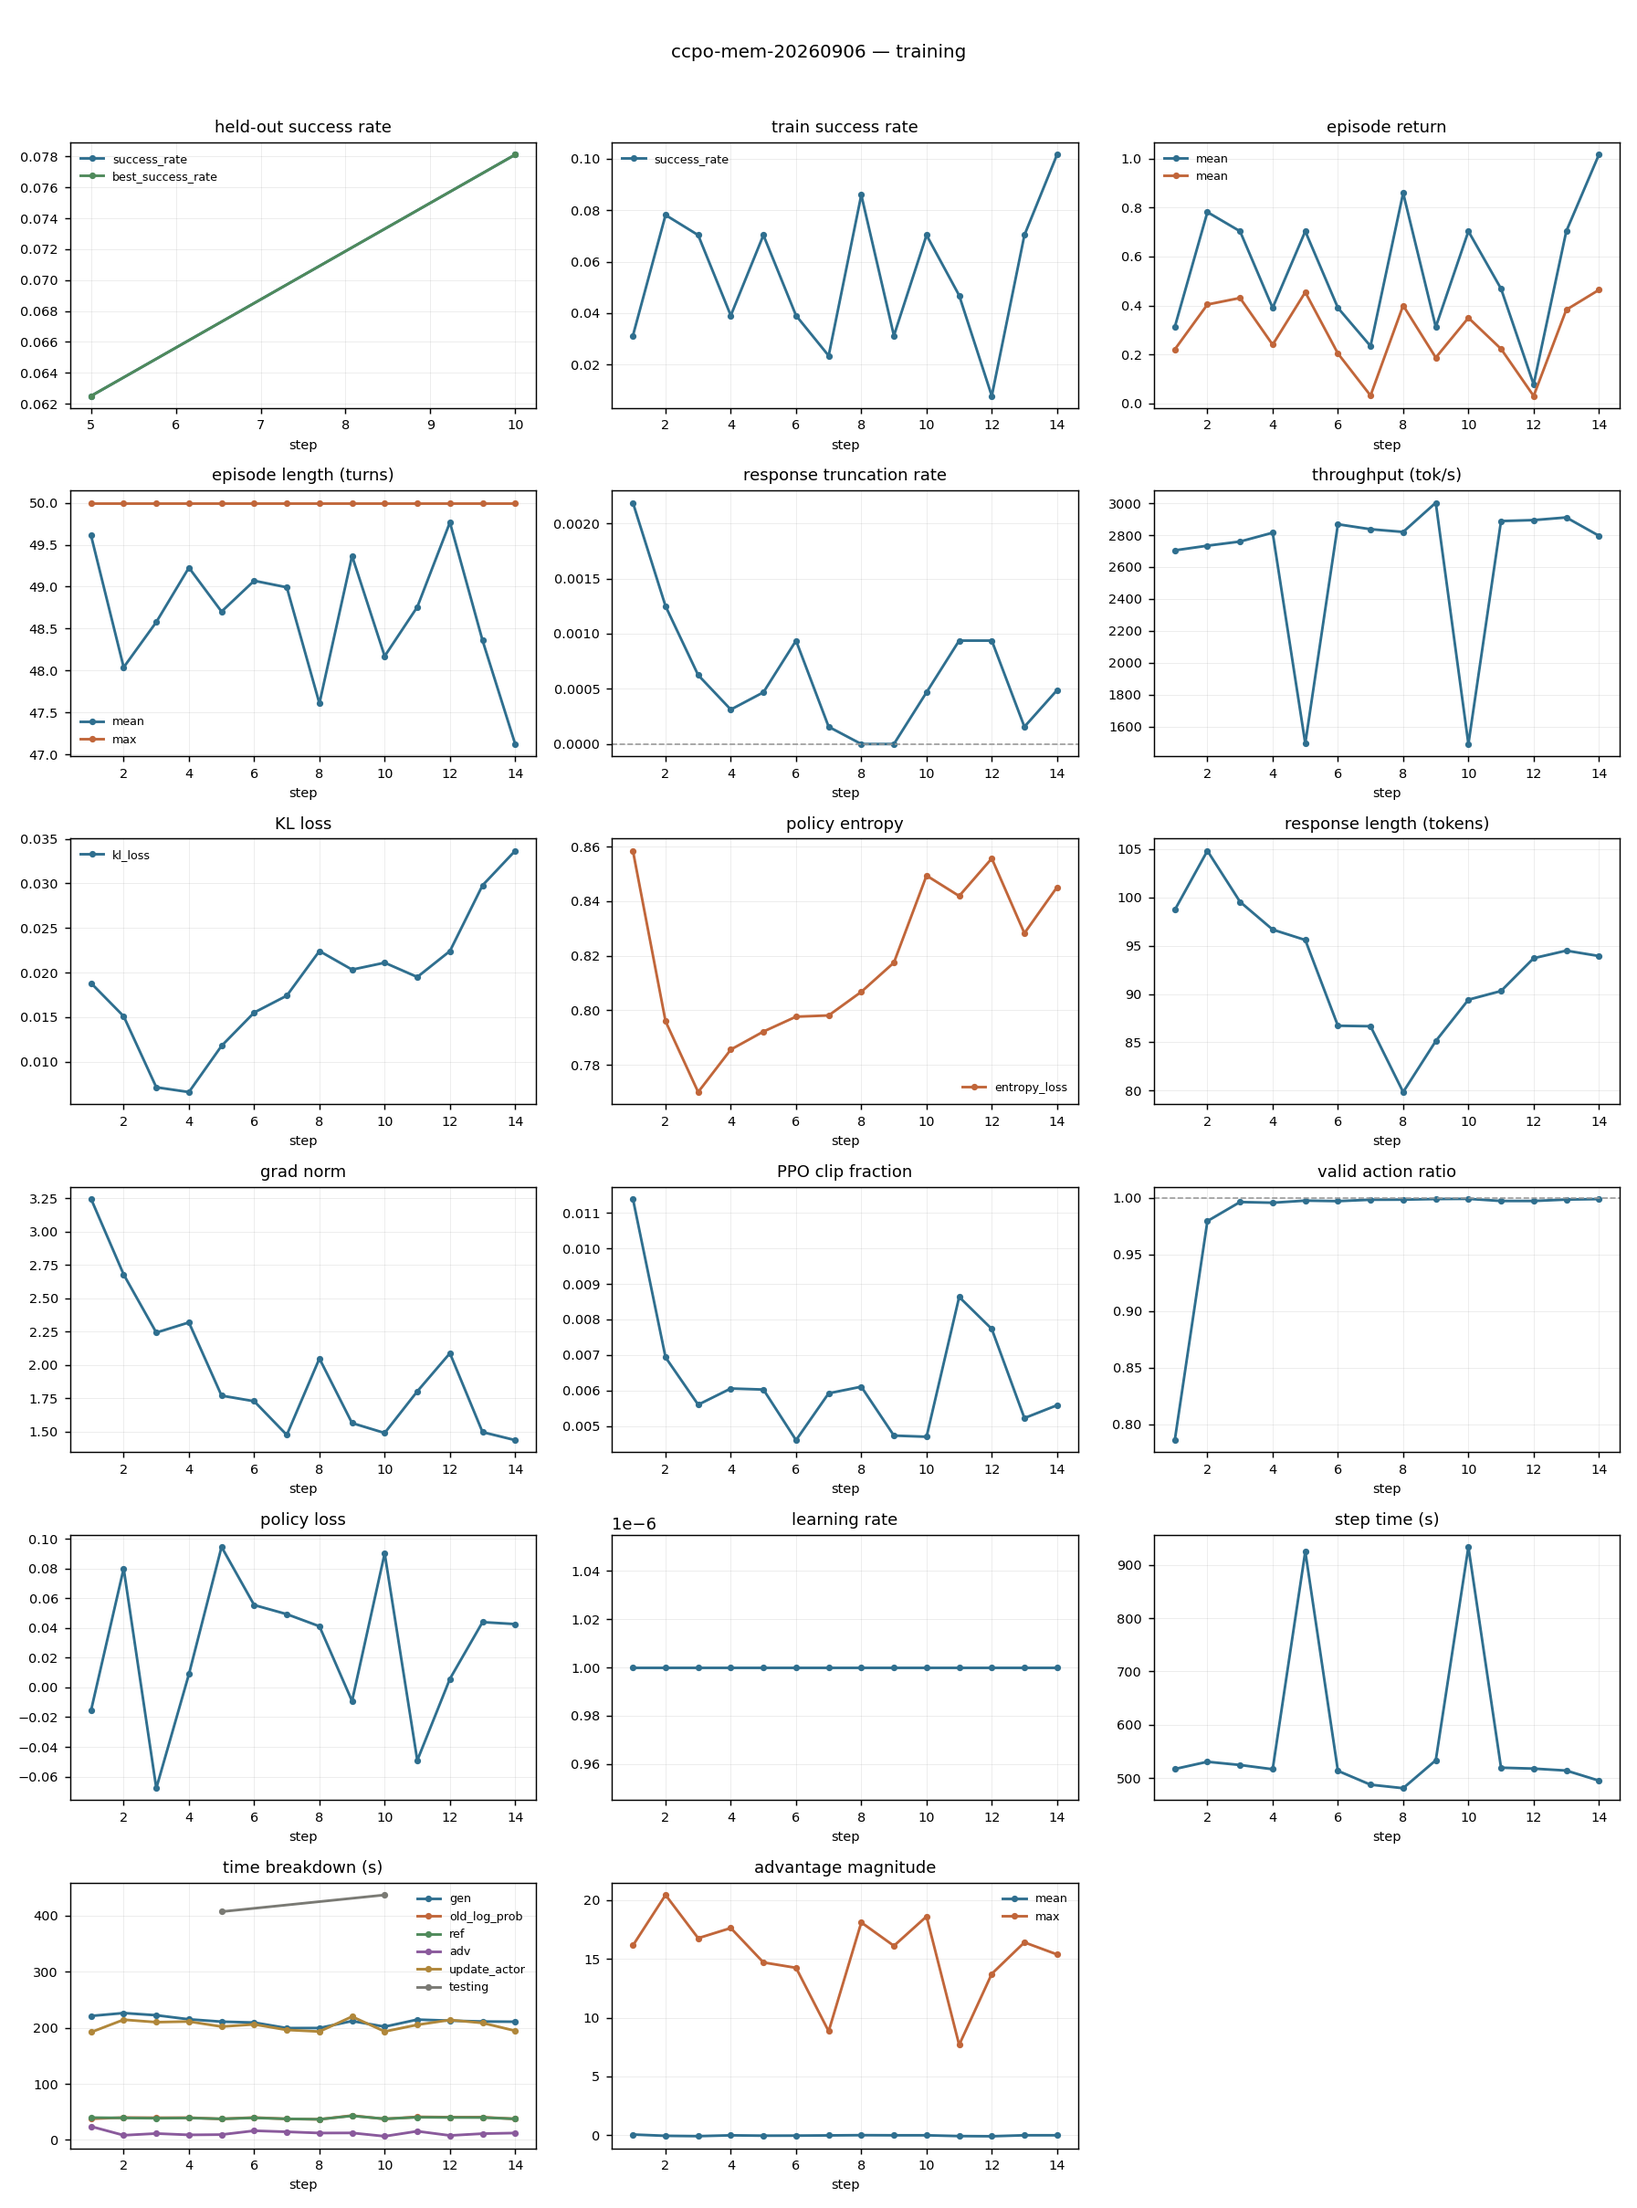
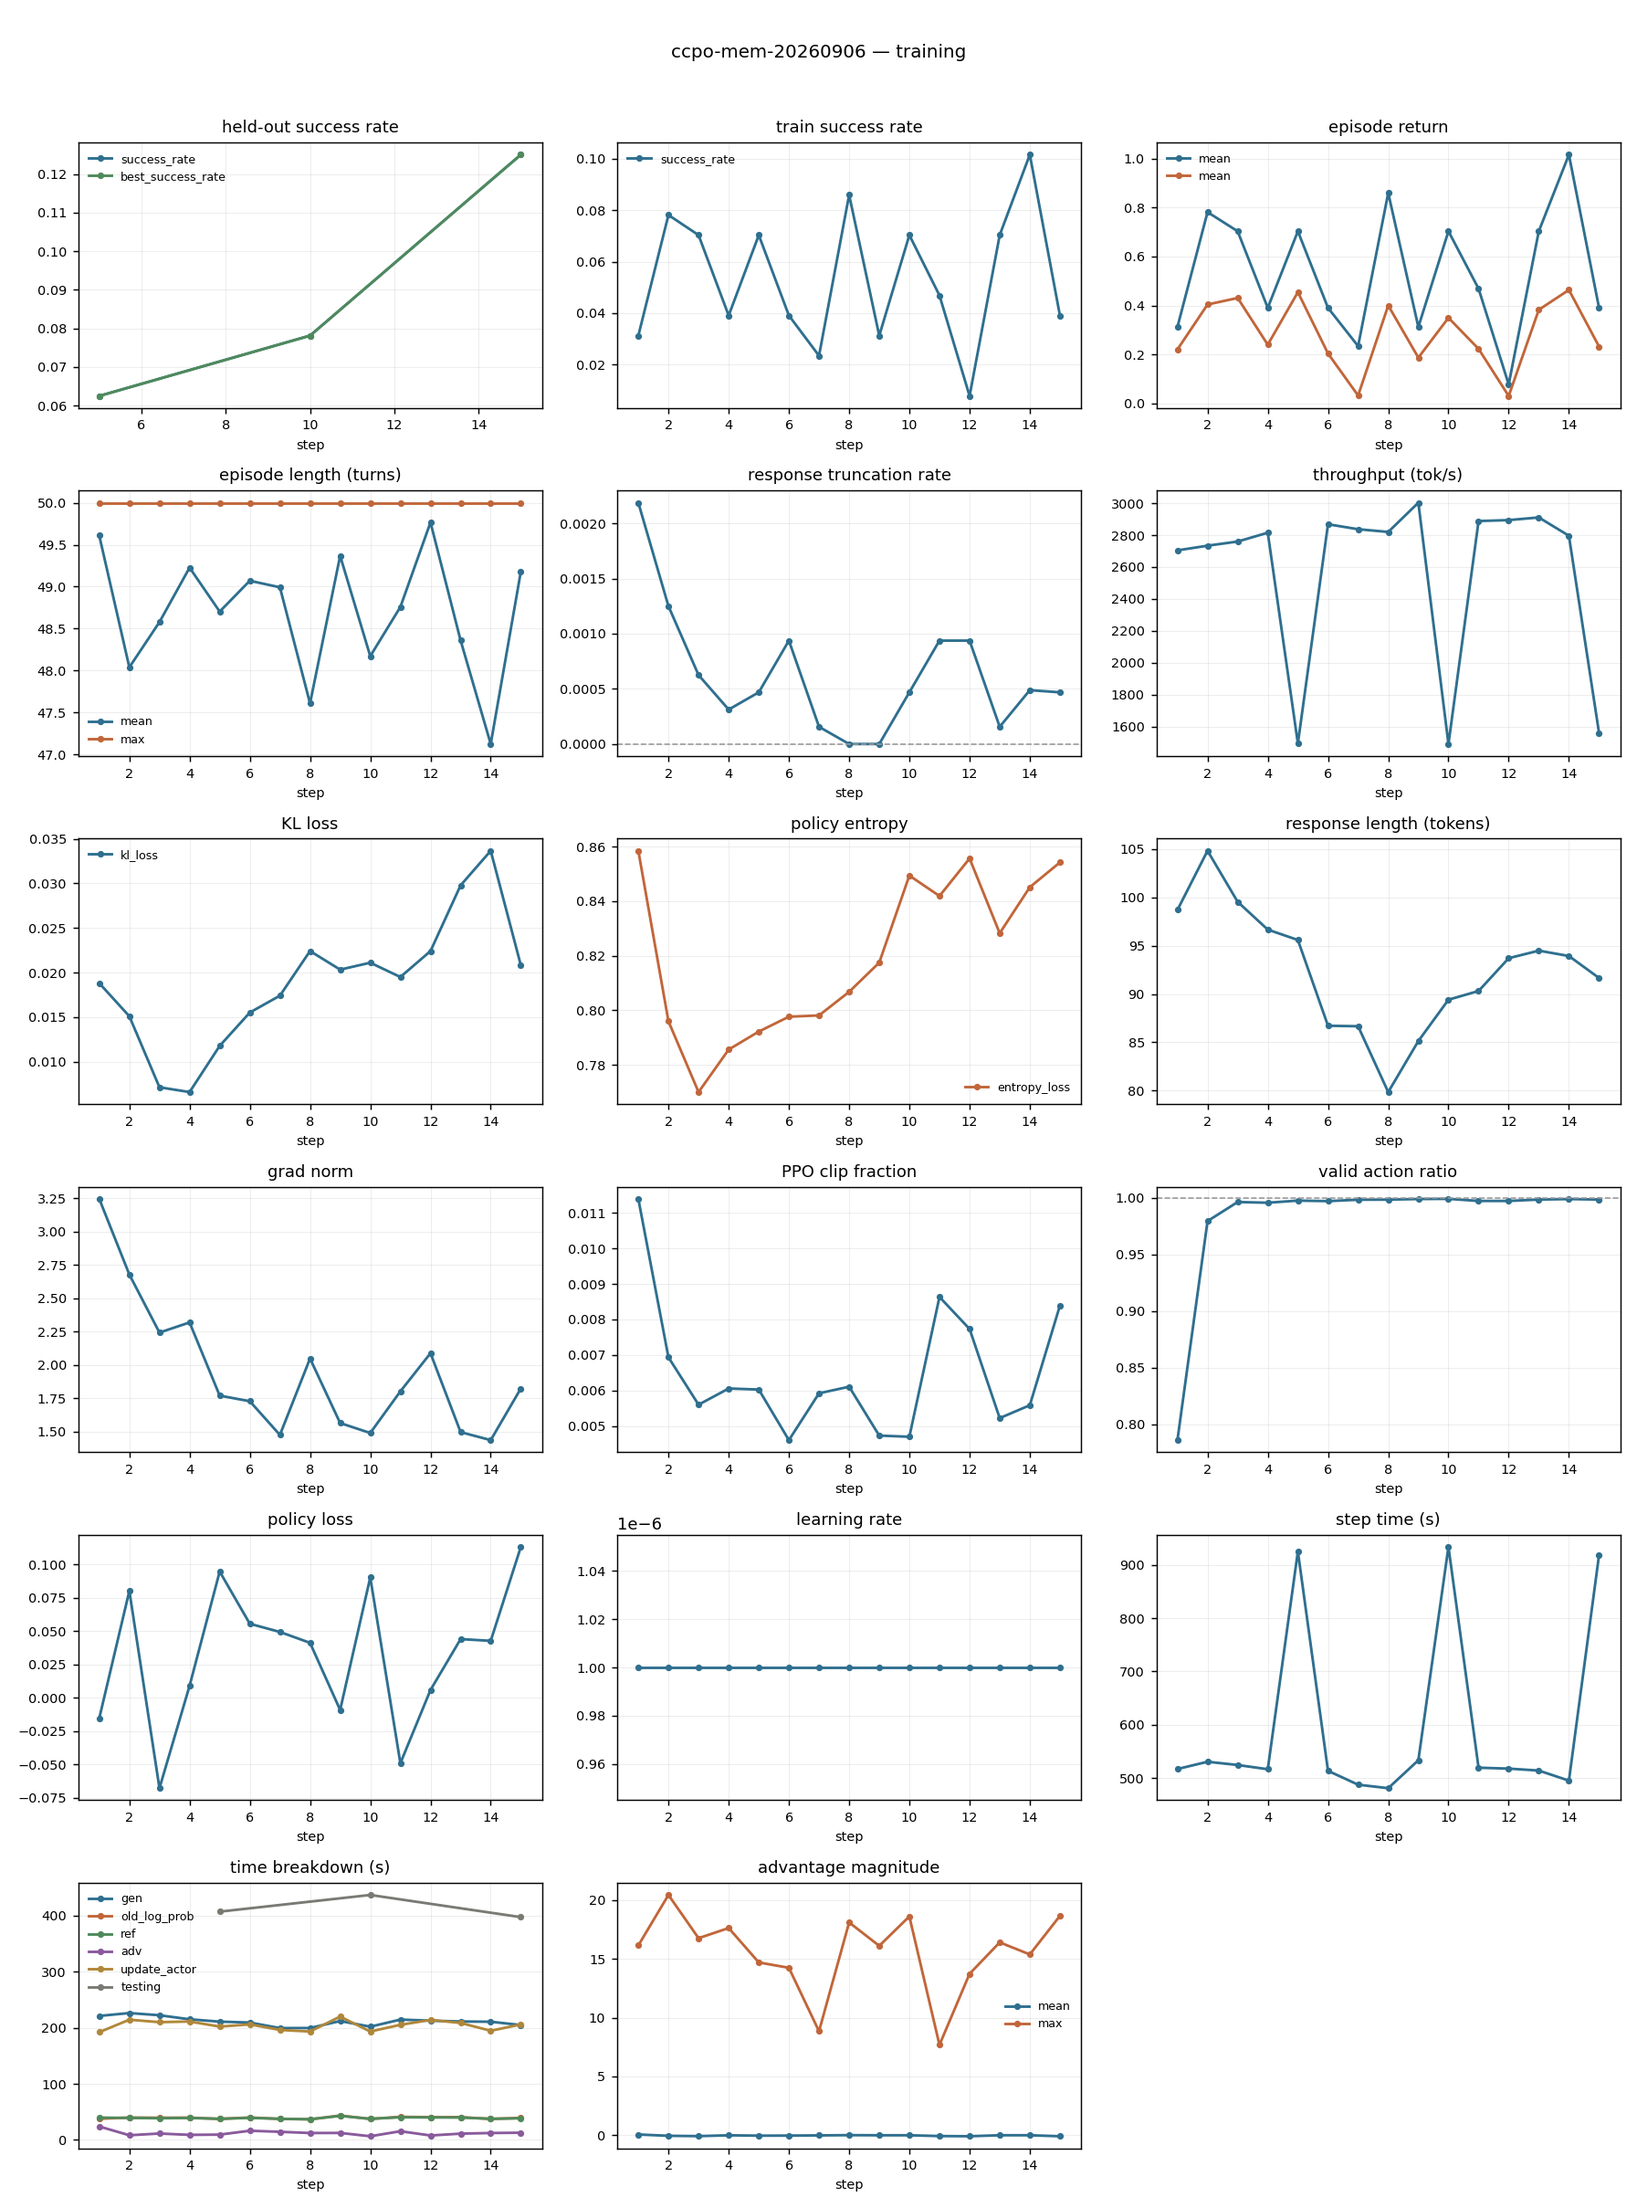
hypothesis.md: retract the one-task-type claim; H-F resolves to under-trained
The held-out set reports per-type success and says the opposite of the training
draw: look_at_obj_in_light 0.000 -> 0.226, pick_and_place 0.119 -> 0.210,
pick_clean 0.105 -> 0.150, pick_cool 0.000 -> 0.077, overall 0.062 -> 0.078 ->
0.125, partial-credit score 0.226 -> 0.453. Four of six types rising, two doublings.

So the plateau was not real -- it was the training-draw metric. The claim that the
policy had learned exactly one task type came from per-type rates on a 16-task draw
where each type gets a handful of samples, and it is a second instance of the
mistake the gotchas section already warns about.

Bears on H-A: relevance did not grow over 14 steps even though the policy
demonstrably improved over the same window, which refutes the "early nulls measured
an undifferentiated policy" explanation as well.

Claude-Session: https://claude.ai/code/session_01TnVw4qcXikRNMjxhmmuJXY

diff --git a/experiments/hypothesis.md b/experiments/hypothesis.md
@@ -76,7 +76,7 @@ within the bucket, or a permutation test per bucket, before it can be trusted.
 
 Also blocked by H-F: measured on a policy stuck near the floor.
 
-### [ ] H-F. The harness plateaus far below published, and we do not know why
+### [x] H-F. The harness plateaus far below published — RESOLVED: under-trained, not broken
 
 **The elephant.** Every arm run here sits at 5-10% training success and 0.06-0.21
 held-out, while published GiGPO reports **90.16** on this exact model and protocol.
@@ -93,7 +93,41 @@ a harness stuck near the floor may simply not exercise the credit-assignment
 differences these arms exist to test. An estimator cannot show its worth on a
 policy that solves nothing.
 
-**Sharpened at step 12 — the policy has learned exactly one task type.**
+> **RETRACTED at step 15, and H-F resolves toward the benign reading.** The
+> held-out set reports per-type success, and it says the opposite of the training
+> draw:
+>
+> | task type | s5 | s10 | s15 |
+> |---|---|---|---|
+> | look_at_obj_in_light | 0.000 | 0.167 | **0.226** |
+> | pick_and_place | 0.119 | 0.142 | **0.210** |
+> | pick_clean_then_place | 0.105 | 0.075 | **0.150** |
+> | pick_cool_then_place | 0.000 | 0.045 | **0.077** |
+> | pick_heat_then_place | 0.000 | 0.071 | 0.000 |
+> | pick_two_obj_and_place | 0.071 | 0.000 | 0.050 |
+> | **OVERALL** | 0.062 | 0.078 | **0.125** |
+> | partial-credit score | 0.226 | 0.386 | **0.453** |
+>
+> **Four of six types are rising**, held-out success has doubled, and the
+> partial-credit score has doubled — the agent is making substantial progress on
+> tasks it does not finish. This is a healthy learning trajectory at step 15 of a
+> process the published work runs for 100-150 steps. **The plateau was not real;
+> it was the training-draw metric.**
+>
+> The claim below — that the policy had learned exactly one task type — came from
+> per-type rates on the 16-task training draw, where each type gets a handful of
+> samples per step. It was wrong, and it is a second instance of the same mistake
+> the gotchas section already warns about: **never read progress off the training
+> draw.**
+>
+> Bearing on H-A: relevance did *not* grow over 14 steps even though the policy was
+> demonstrably improving over the same window. So "the early nulls measured an
+> undifferentiated policy" is refuted too — the policy differentiated, and
+> `phi_rel_corr` stayed at ~0.03.
+>
+> ---
+>
+> *(retracted) Sharpened at step 12 — the policy has learned exactly one task type.*
 Per-type success on the training draw:
 
 | step | pick_and_place | pick_clean | pick_cool | pick_heat | pick_two_obj |
